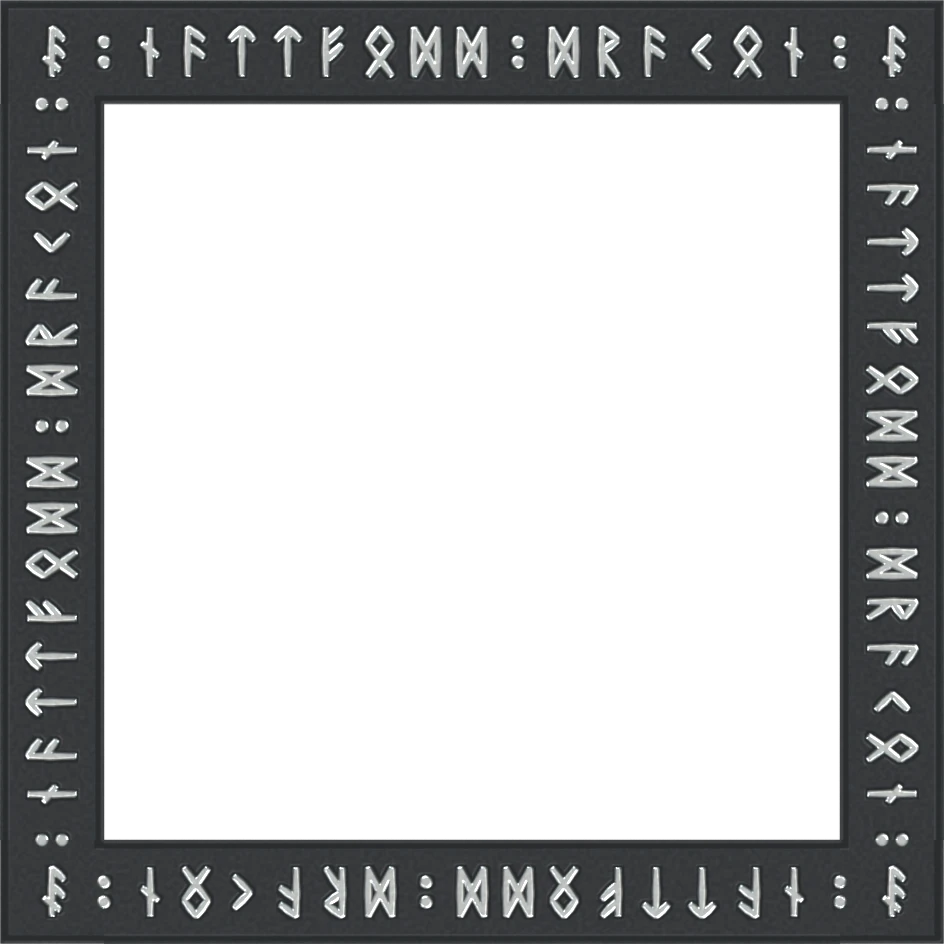
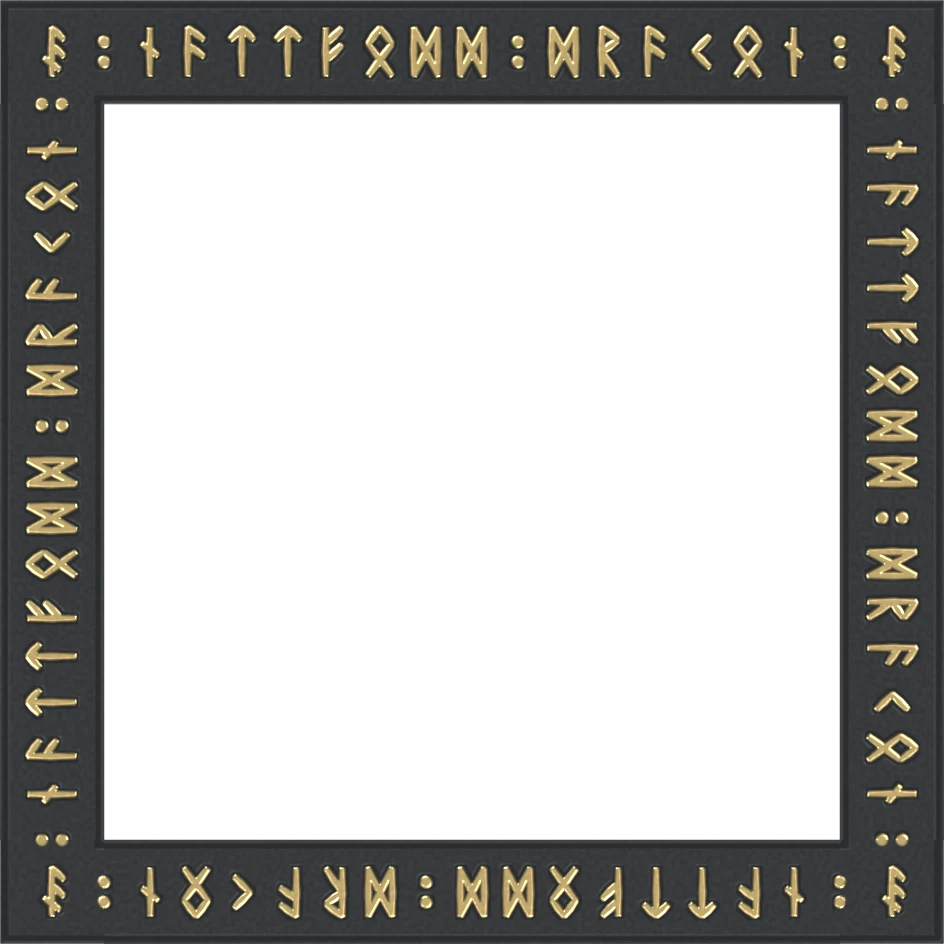
Static border matches the live-lit defaults: gold runes on black slate
images/rune-border.webp was still the silver render; it is now the finished
gold-on-black-slate one (art/border-variants/gold-blackslate.webp), so the
static page, /static/ and no-JS visitors see the chosen look.

diff --git a/css/main.css b/css/main.css
@@ -139,7 +139,7 @@ a:focus-visible {
 
 /* Rune border round the card: images/rune-border.webp, a 9-slice image rendered by
    scripts/render_frame_blender.py --variant border from scripts/make_rune_border.py
-   (silver runes on near-black stone, NAT bind runes in the corners). border-image
+   (gold runes on near-black stone, matching the live-lit defaults, NAT bind runes in the corners). border-image
    can't follow rounded corners, so the card's corners are square. */
 .--site-main .--container-component.--instance-container02 {
     border: 1.75rem solid transparent;
